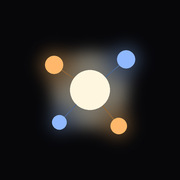
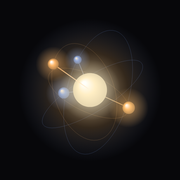
시험: 시작 화면 더 밝게, 앱 아이콘을 시작 화면과 같은 모양으로
Claude-Session: https://claude.ai/code/session_01CrWcCUAzv4yaeRSbjfLw5m

diff --git a/test/index.html b/test/index.html
@@ -142,25 +142,25 @@ canvas{display:block;width:100%;touch-action:none;user-select:none;-webkit-user-
 (function(){var c=document.getElementById('spc');if(!c)return;var x=c.getContext('2d'),W,H,D,run=true;
 function sz(){D=window.devicePixelRatio||1;W=innerWidth;H=innerHeight;c.width=W*D;c.height=H*D;x.setTransform(D,0,0,D,0,0);}sz();addEventListener('resize',sz);
 var K=Math.min(1.25,Math.max(.75,Math.min(innerWidth,innerHeight)/390));
-var sats=[{r:112,inc:.42,node:.45,sp:.6,ph:0,c:[255,184,107],s:15},{r:146,inc:.3,node:-.55,sp:.4,ph:2.1,c:[143,184,255],s:17},{r:128,inc:.62,node:1.25,sp:.5,ph:4.0,c:[255,184,107],s:13},{r:160,inc:.5,node:-1.3,sp:.33,ph:1.0,c:[143,184,255],s:12}];
+var sats=[{r:112,inc:.42,node:.45,sp:.6,ph:0,c:[255,190,110],s:16},{r:146,inc:.3,node:-.55,sp:.4,ph:2.1,c:[120,168,255],s:17},{r:128,inc:.62,node:1.25,sp:.5,ph:4.0,c:[255,184,107],s:13},{r:160,inc:.5,node:-1.3,sp:.33,ph:1.0,c:[120,168,255],s:12}];
 var stars=[];for(var i=0;i<90;i++){var u=Math.random()*2-1,th=Math.random()*6.283,rr=380+Math.random()*420;stars.push([Math.sqrt(1-u*u)*Math.cos(th)*rr,u*rr,Math.sqrt(1-u*u)*Math.sin(th)*rr,Math.random()*1.4+.4,Math.random()*6.28]);}
 function rot(p,inc,node,yaw){var X=p[0],Y=p[1],Z=p[2];var y1=Y*Math.cos(inc)-Z*Math.sin(inc),z1=Y*Math.sin(inc)+Z*Math.cos(inc);var x2=X*Math.cos(node)-y1*Math.sin(node),y2=X*Math.sin(node)+y1*Math.cos(node);var x3=x2*Math.cos(yaw)+z1*Math.sin(yaw),z3=-x2*Math.sin(yaw)+z1*Math.cos(yaw);return [x3,y2,z3];}
 function pr(p){var f=520,s=f/(f+p[2]);return [W/2+p[0]*s*K,H*0.47+p[1]*s*K,s];}
-function ball(px,py,r,col,a,glow){var g=x.createRadialGradient(px,py,0,px,py,r*glow);g.addColorStop(0,'rgba('+col+','+(.35*a)+')');g.addColorStop(1,'rgba('+col+',0)');x.fillStyle=g;x.beginPath();x.arc(px,py,r*glow,0,7);x.fill();
-  var h=x.createRadialGradient(px-r*.35,py-r*.4,r*.1,px,py,r);h.addColorStop(0,'rgba(255,255,250,'+a+')');h.addColorStop(.35,'rgba('+col+','+a+')');h.addColorStop(1,'rgba('+col.split(',').map(function(v){return Math.round(v*.45)}).join(',')+','+a+')');x.fillStyle=h;x.beginPath();x.arc(px,py,r,0,7);x.fill();}
+function ball(px,py,r,col,a,glow,dk){dk=dk||.62;var g=x.createRadialGradient(px,py,0,px,py,r*glow);g.addColorStop(0,'rgba('+col+','+(.6*a)+')');g.addColorStop(1,'rgba('+col+',0)');x.fillStyle=g;x.beginPath();x.arc(px,py,r*glow,0,7);x.fill();
+  var h=x.createRadialGradient(px-r*.35,py-r*.4,r*.1,px,py,r);h.addColorStop(0,'rgba(255,255,250,'+a+')');h.addColorStop(.45,'rgba('+col+','+a+')');h.addColorStop(1,'rgba('+col.split(',').map(function(v){return Math.round(v*dk)}).join(',')+','+a+')');x.fillStyle=h;x.beginPath();x.arc(px,py,r,0,7);x.fill();}
 function frame(ms){if(!run)return;var t=ms/1000;x.clearRect(0,0,W,H);x.fillStyle='#07070a';x.fillRect(0,0,W,H);var yaw=t*.12;
-  stars.forEach(function(s){var p=rot([s[0],s[1],s[2]],.3,0,yaw*.4);if(p[2]<-400)return;var q=pr(p);var a=(.25+.35*Math.sin(t*1.3+s[4]))*Math.min(1,q[2]);if(a<=0)return;x.fillStyle='rgba(237,235,228,'+a+')';x.beginPath();x.arc(q[0],q[1],s[3]*q[2],0,7);x.fill();});
+  stars.forEach(function(s){var p=rot([s[0],s[1],s[2]],.3,0,yaw*.4);if(p[2]<-400)return;var q=pr(p);var a=(.4+.4*Math.sin(t*1.3+s[4]))*Math.min(1,q[2]);if(a<=0)return;x.fillStyle='rgba(237,235,228,'+a+')';x.beginPath();x.arc(q[0],q[1],s[3]*q[2],0,7);x.fill();});
   var items=[];
   sats.forEach(function(o){var path=[];for(var k=0;k<=64;k++){var a=k/64*6.283;path.push(pr(rot([o.r*Math.cos(a),0,o.r*Math.sin(a)],o.inc,o.node,yaw)));}
-    x.strokeStyle='rgba('+o.c.join(',')+',0.10)';x.lineWidth=1;x.beginPath();path.forEach(function(q,i){i?x.lineTo(q[0],q[1]):x.moveTo(q[0],q[1]);});x.stroke();
+    x.strokeStyle='rgba('+o.c.join(',')+',0.24)';x.lineWidth=1;x.beginPath();path.forEach(function(q,i){i?x.lineTo(q[0],q[1]):x.moveTo(q[0],q[1]);});x.stroke();
     var a=o.ph+t*o.sp,p=rot([o.r*Math.cos(a),0,o.r*Math.sin(a)],o.inc,o.node,yaw);items.push({z:p[2],q:pr(p),o:o});});
   var sun=pr([0,0,0]),sr=44*K*(1+.04*Math.sin(t*2.4));
-  function line(it){var a=Math.max(.15,Math.min(.6,.45-it.z/600));var g=x.createLinearGradient(sun[0],sun[1],it.q[0],it.q[1]);g.addColorStop(0,'rgba(255,246,224,'+a+')');g.addColorStop(1,'rgba('+it.o.c.join(',')+','+a+')');x.strokeStyle=g;x.lineWidth=1.6*it.q[2];x.beginPath();x.moveTo(sun[0],sun[1]);x.lineTo(it.q[0],it.q[1]);x.stroke();}
-  function sat(it){var d=it.q[2],a=Math.max(.45,Math.min(1,d*1.05));ball(it.q[0],it.q[1],it.o.s*K*d*(1+.08*Math.sin(t*3+it.o.ph)),it.o.c.join(','),a,2.6);}
+  function line(it){var a=Math.max(.35,Math.min(.9,.7-it.z/600));var g=x.createLinearGradient(sun[0],sun[1],it.q[0],it.q[1]);g.addColorStop(0,'rgba(255,246,224,'+a+')');g.addColorStop(1,'rgba('+it.o.c.join(',')+','+a+')');x.strokeStyle=g;x.lineWidth=2.2*it.q[2];x.beginPath();x.moveTo(sun[0],sun[1]);x.lineTo(it.q[0],it.q[1]);x.stroke();}
+  function sat(it){var d=it.q[2],a=Math.max(.75,Math.min(1,d*1.1));ball(it.q[0],it.q[1],it.o.s*K*d*(1+.08*Math.sin(t*3+it.o.ph)),it.o.c.join(','),a,3.2,.7);}
   items.sort(function(a,b){return b.z-a.z});
   items.filter(function(i){return i.z>0}).forEach(function(i){line(i);sat(i);});
-  var halo=x.createRadialGradient(sun[0],sun[1],sr*.6,sun[0],sun[1],sr*4.2);halo.addColorStop(0,'rgba(255,236,200,'+(.32+.08*Math.sin(t*2.4))+')');halo.addColorStop(.5,'rgba(255,184,107,.08)');halo.addColorStop(1,'rgba(143,184,255,0)');x.fillStyle=halo;x.beginPath();x.arc(sun[0],sun[1],sr*4.2,0,7);x.fill();
-  ball(sun[0],sun[1],sr,'255,240,214',1,1.6);
+  var halo=x.createRadialGradient(sun[0],sun[1],sr*.6,sun[0],sun[1],sr*4.2);halo.addColorStop(0,'rgba(255,240,205,'+(.55+.1*Math.sin(t*2.4))+')');halo.addColorStop(.45,'rgba(255,190,110,.18)');halo.addColorStop(1,'rgba(143,184,255,0)');x.fillStyle=halo;x.beginPath();x.arc(sun[0],sun[1],sr*4.2,0,7);x.fill();
+  ball(sun[0],sun[1],sr,'255,238,196',1,1.8,.9);
   items.filter(function(i){return i.z<=0}).forEach(function(i){line(i);sat(i);});
   requestAnimationFrame(frame);}
 var reduce=window.matchMedia&&matchMedia('(prefers-reduced-motion: reduce)').matches;
